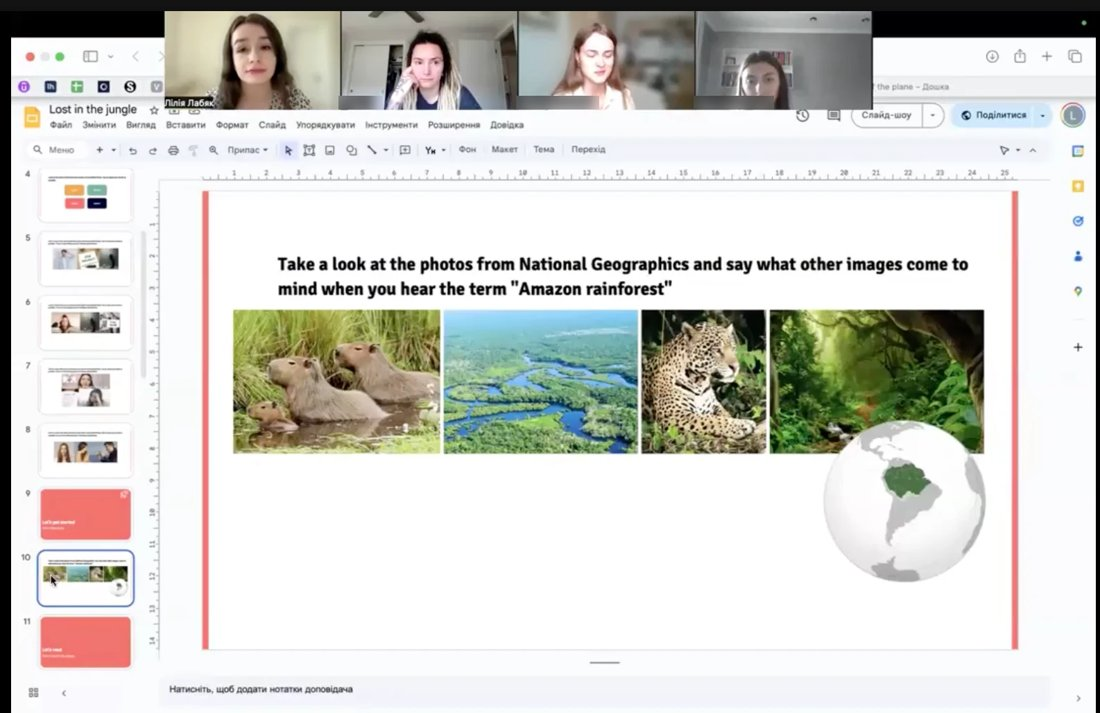
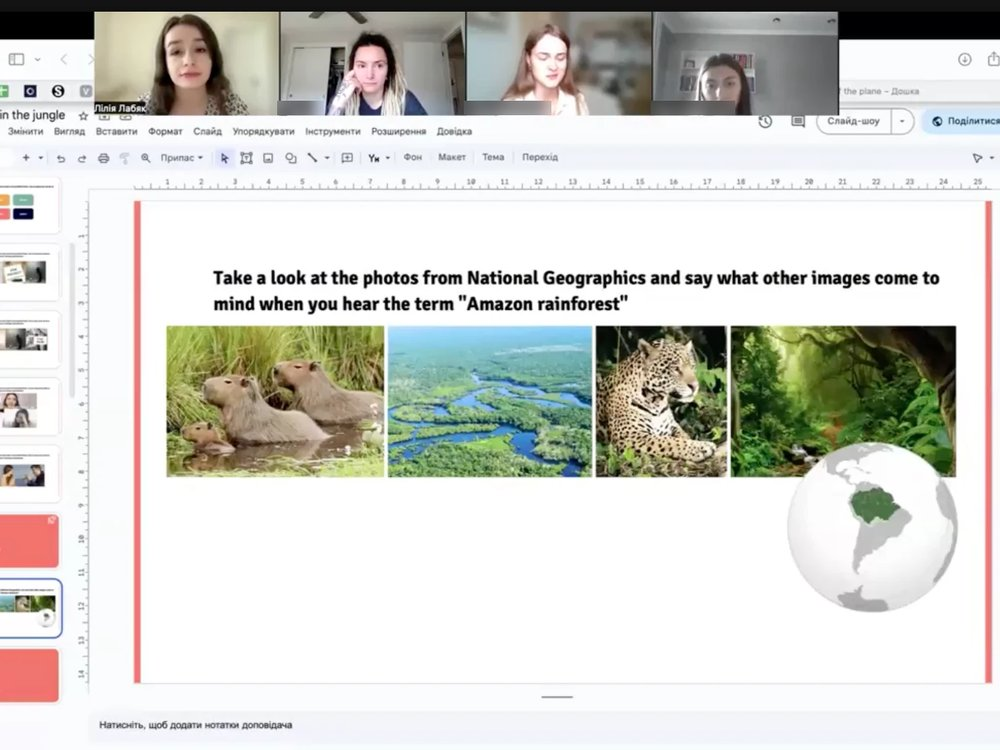
Draft About page: four student photos in equal 4:3 frames
Claude-Session: https://claude.ai/code/session_01QkiX6sy3kLnevVNDkzLW44

diff --git a/about.html b/about.html
@@ -17,7 +17,7 @@
 <section class="section"><div class="section-head"><span class="pill">What I teach</span><h2>My lessons</h2></div><div class="ab-cols"><div class="ab-col c-blue"><h3>General English</h3><p>Speaking, grammar, vocabulary and reading for everyday life and travel, A0–C1.</p></div><div class="ab-col c-butter"><h3>Business English</h3><p>Meetings, emails, presentations, negotiations and job interviews.</p></div><div class="ab-col c-blush"><h3>IT English</h3><p>English for developers, QA and other IT specialists: stand-ups, tickets, technical interviews.</p></div></div></section>
 <section class="section"><div class="section-head"><span class="pill">Examples</span><h2>Lessons I made</h2></div><p class="ab-note">Every lesson is built around a real topic: a warm-up, new vocabulary, a video or an article, grammar in context and lots of speaking. Click through the slides.</p><div class="ab-decks"><figure class="ab-deck"><div class="frame"><iframe src="https://docs.google.com/presentation/d/19TMewG2A5rG4Q1t2ErUFBR7-QPD-stbqkpYmHFQB6-g/embed?start=false&amp;loop=false" title="Lesson slides: Dark Patterns" loading="lazy" allowfullscreen></iframe></div><figcaption><span class="t">Dark Patterns</span><span class="k">B1 · Everyday tech</span><a href="https://docs.google.com/presentation/d/19TMewG2A5rG4Q1t2ErUFBR7-QPD-stbqkpYmHFQB6-g/view" target="_blank" rel="noopener">Open ↗</a></figcaption></figure><figure class="ab-deck"><div class="frame"><iframe src="https://docs.google.com/presentation/d/1rT1fGx0mo6QEBZBx6K6HkrbZdJz-o2TvNCwZiqhA7LI/embed?start=false&amp;loop=false" title="Lesson slides: Stormy weather" loading="lazy" allowfullscreen></iframe></div><figcaption><span class="t">Stormy weather</span><span class="k">B2 · Weather and the future</span><a href="https://docs.google.com/presentation/d/1rT1fGx0mo6QEBZBx6K6HkrbZdJz-o2TvNCwZiqhA7LI/view" target="_blank" rel="noopener">Open ↗</a></figcaption></figure><figure class="ab-deck"><div class="frame"><iframe src="https://docs.google.com/presentation/d/1ktZh2WhCIwmI9KqfHuwIgL32U68G0_jHiQCcgT3sL8o/embed?start=false&amp;loop=false" title="Lesson slides: Your RAM Is Wasted on You" loading="lazy" allowfullscreen></iframe></div><figcaption><span class="t">Your RAM Is Wasted on You</span><span class="k">C1 · Tech &amp; AI news</span><a href="https://docs.google.com/presentation/d/1ktZh2WhCIwmI9KqfHuwIgL32U68G0_jHiQCcgT3sL8o/view" target="_blank" rel="noopener">Open ↗</a></figcaption></figure></div></section>
 <section class="section"><div class="section-head"><span class="pill">Inside a lesson</span><h2>Reading, grammar and speaking</h2></div><p class="ab-note">This is what a lesson board looks like: every lesson combines new language with reading, listening and lots of speaking. Click a picture to see it in full size.</p><div class="ab-boards"><figure class="ab-board"><a href="/img/lessons/survive-the-drive-b1.jpg" target="_blank" rel="noopener"><img src="/img/lessons/survive-the-drive-b1-small.jpg" alt="Lesson board: Survive the Drive" loading="lazy"></a><figcaption><span class="t">Survive the Drive</span><span class="k">B1 · Vocabulary, speaking, reading and listening</span></figcaption></figure><figure class="ab-board"><a href="/img/lessons/the-necklace-b2.jpg" target="_blank" rel="noopener"><img src="/img/lessons/the-necklace-b2-small.jpg" alt="Lesson board: The Necklace" loading="lazy"></a><figcaption><span class="t">The Necklace</span><span class="k">B2 · A short story: reading, listening and discussion</span></figcaption></figure><figure class="ab-board"><a href="/img/lessons/the-way-we-used-to-sleep-b2.jpg" target="_blank" rel="noopener"><img src="/img/lessons/the-way-we-used-to-sleep-b2-small.jpg" alt="Lesson board: The way we used to sleep" loading="lazy"></a><figcaption><span class="t">The way we used to sleep</span><span class="k">B2 · Grammar (used to, be used to, get used to), reading and speaking</span></figcaption></figure></div></section>
-<section class="section"><div class="section-head"><span class="pill">Real lessons</span><h2>With my students</h2></div><div class="ab-people"><figure class="ab-person"><img src="/img/students/group.jpg" alt="Study with friends: Small group lessons and speaking practice" loading="lazy"><figcaption><span class="t">Study with friends</span><span class="k">Small group lessons and speaking practice</span></figcaption></figure><figure class="ab-person"><img src="/img/students/interview.jpg" alt="Prepare for interviews: Mock job interviews in English" loading="lazy"><figcaption><span class="t">Prepare for interviews</span><span class="k">Mock job interviews in English</span></figcaption></figure><figure class="ab-person"><img src="/img/students/group-lesson.jpg" alt="Learn together: A group lesson: Lost in the jungle" loading="lazy"><figcaption><span class="t">Learn together</span><span class="k">A group lesson: Lost in the jungle</span></figcaption></figure><figure class="ab-person"><img src="/img/students/pets.jpg" alt="Study with pets: Cats are always welcome at my lessons" loading="lazy"><figcaption><span class="t">Study with pets</span><span class="k">Cats are always welcome at my lessons</span></figcaption></figure></div></section>
+<section class="section"><div class="section-head"><span class="pill">Real lessons</span><h2>With my students</h2></div><div class="ab-people"><figure class="ab-person"><img src="/img/students/group-lesson.jpg" alt="Learn together: A group lesson: Lost in the jungle" loading="lazy"><figcaption><span class="t">Learn together</span><span class="k">A group lesson: Lost in the jungle</span></figcaption></figure><figure class="ab-person"><img src="/img/students/interview.jpg" alt="Prepare for interviews: Mock job interviews in English" loading="lazy"><figcaption><span class="t">Prepare for interviews</span><span class="k">Mock job interviews in English</span></figcaption></figure><figure class="ab-person"><img src="/img/students/pets.jpg" alt="Study with pets: Cats are always welcome at my lessons" loading="lazy"><figcaption><span class="t">Study with pets</span><span class="k">Cats are always welcome at my lessons</span></figcaption></figure><figure class="ab-person"><img src="/img/students/traveling.jpg" alt="Study while traveling: English goes with you everywhere" loading="lazy"><figcaption><span class="t">Study while traveling</span><span class="k">English goes with you everywhere</span></figcaption></figure></div></section>
 </main>
 <footer class="site-footer" id="contacts"><div class="fwrap"><div class="fcol fabout"><div class="fbrand">Your Digital Workbook</div><p>Liliia Labiak · English teacher.<br>Exercises for the lessons we do together.</p></div><div class="fcol"><h4>Contact</h4><a href="mailto:lilia.labiak17012002@gmail.com">lilia.labiak17012002@gmail.com</a><a href="tel:+380989960039">+380 98 996 00 39</a><a href="https://t.me/Lilia_labiak">Telegram: @Lilia_labiak</a></div><div class="fcol"><h4>Info</h4><a href="/about">About me</a><a href="/terms">Terms &amp; Conditions</a></div></div><div class="fbottom"><span>© 2026 Liliia Labiak</span><span>English practice · A1–C1</span></div></footer>
 </body></html>

diff --git a/about.css b/about.css
@@ -33,9 +33,10 @@
 .ab-board figcaption{display:flex;flex-direction:column;gap:2px;padding:14px 18px 16px}
 .ab-board .t{font:600 20px/1.2 var(--serif)}
 .ab-board .k{font:500 13px var(--sans);color:var(--muted)}
-.ab-people{columns:2 320px;column-gap:18px}
-.ab-person{margin:0 0 18px;break-inside:avoid;background:var(--paper);border:1px solid var(--line);border-radius:20px;overflow:hidden;display:flex;flex-direction:column}
-.ab-person img{display:block;width:100%;height:auto}
+.ab-people{display:grid;grid-template-columns:repeat(2,1fr);gap:18px}
+.ab-person{margin:0;background:var(--paper);border:1px solid var(--line);border-radius:20px;overflow:hidden;display:flex;flex-direction:column}
+.ab-person img{display:block;width:100%;aspect-ratio:4/3;object-fit:cover}
+@media (max-width:640px){.ab-people{grid-template-columns:1fr}}
 .ab-person figcaption{display:flex;flex-direction:column;gap:2px;padding:14px 18px 16px}
 .ab-person .t{font:600 22px/1.2 var(--serif)}
 .ab-person .k{font:500 13px var(--sans);color:var(--muted)}

diff --git a/tools/build.py b/tools/build.py
@@ -217,11 +217,11 @@ BOARDS = [  # image file in img/lessons, title, level and what's inside
     ('the-necklace-b2', 'The Necklace', 'B2 · A short story: reading, listening and discussion'),
     ('the-way-we-used-to-sleep-b2', 'The way we used to sleep', 'B2 · Grammar (used to, be used to, get used to), reading and speaking'),
 ]
-STUDENTS = [  # photo in img/students, caption, small line
-    ('group', 'Study with friends', 'Small group lessons and speaking practice'),
-    ('interview', 'Prepare for interviews', 'Mock job interviews in English'),
+STUDENTS = [  # photo in img/students (all cropped to 4:3), caption, small line
     ('group-lesson', 'Learn together', 'A group lesson: Lost in the jungle'),
+    ('interview', 'Prepare for interviews', 'Mock job interviews in English'),
     ('pets', 'Study with pets', 'Cats are always welcome at my lessons'),
+    ('traveling', 'Study while traveling', 'English goes with you everywhere'),
 ]
 FACTS = [('5', 'years of teaching'), ('100+', 'students prepared for job interviews'), ('A0–C1', 'all levels, from complete beginners'), ('3', 'directions: General, Business and IT English')]
 about_body = (
